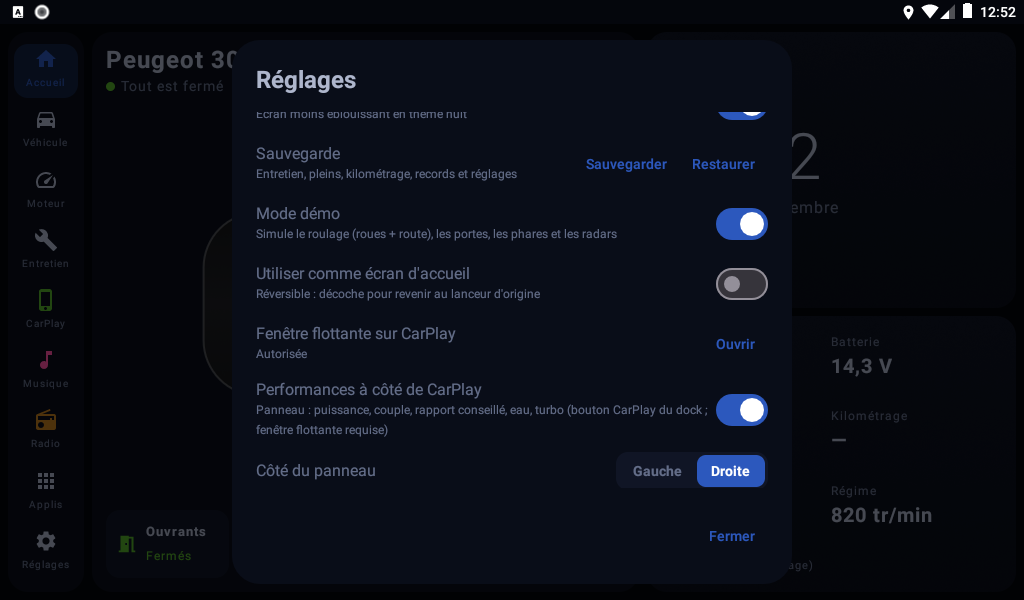
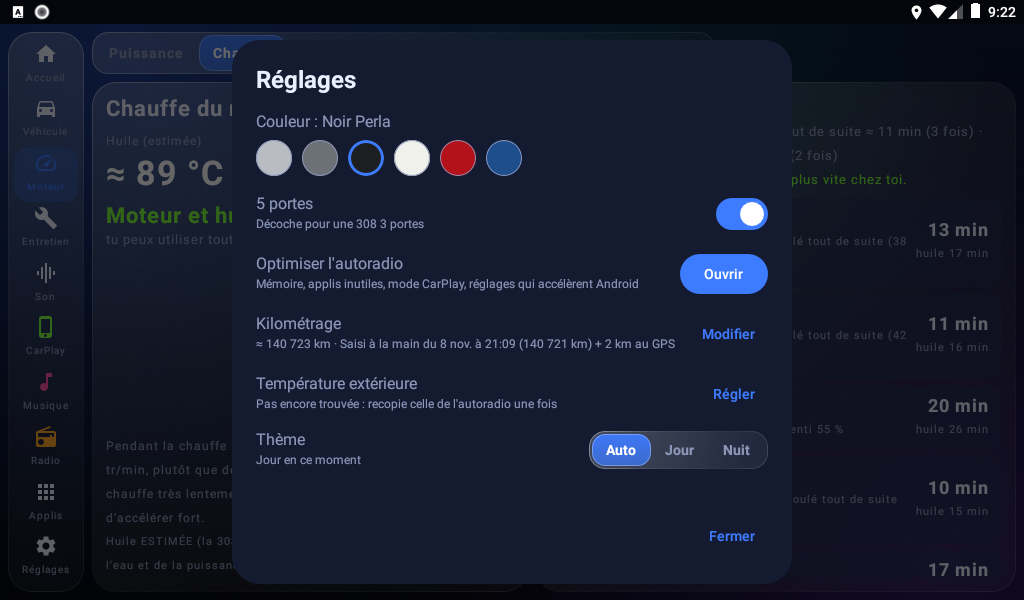
README : captures Moteur Chauffe, Réglages et Optimiser mises à jour (v0.19, mode démo)

diff --git a/README.md b/README.md
@@ -41,16 +41,18 @@ de dessus en 2D, celle que l'appli affiche quand la 3D n'est pas disponible. Sur
 | ![Santé de la batterie mesurée à chaque démarrage](docs/captures/onglets/13-moteur-batterie.png) | ![Trajet en cours avec score de conduite souple, historique des trajets](docs/captures/onglets/08-moteur-trajets.png) |
 | **Moteur — Chrono** | **Moteur — Bilan et FAP (v0.14)** |
 | ![Chrono 0-100 et 80-120 km/h](docs/captures/onglets/07-moteur-chrono.png) | ![Bilan du mois, régénération du FAP en cours repérée au débit d'air, conseil voie rapide](docs/captures/onglets/14-moteur-bilan-fap.png) |
+| **Moteur — Chauffe (v0.11)** | |
+| ![Huile estimée, temps de chauffe prévu d'après les chauffes passées, comparaison rouler / ralenti](docs/captures/onglets/21-moteur-chauffe.png) | |
 | **Son — Alignement (v0.15)** | **Son — Tests et polarité (v0.15)** |
 | ![Distances oreille / haut-parleurs et retards à recopier dans le DSP](docs/captures/onglets/15-son-alignement.png) | ![Sons de test par côté, balayage, test de polarité A / B en cours](docs/captures/onglets/16-son-tests.png) |
 | **Son — Mesure au micro du PC (v0.15)** | **Son — Options (v0.15)** |
 | ![Bruit rose, clics gauche / droite, montée en volume pour l'outil PC](docs/captures/onglets/17-son-mesure-pc.png) | ![Volume selon la vitesse, annonces vocales, applis son de l'autoradio](docs/captures/onglets/18-son-options.png) |
 | **Optimiser l'autoradio (v0.16)** | **Optimiser — réglages guidés (v0.16)** |
-| ![Mémoire libérée, mode CarPlay, nettoyage à l'ouverture de CarPlay](docs/captures/onglets/19-optimisation.png) | ![Animations, recherche Wi-Fi / Bluetooth, veille FYT, applis inutilisées](docs/captures/onglets/20-optimisation-reglages.png) |
+| ![Mémoire libérée à la main ou toute seule (v0.18), mode CarPlay, nettoyage à l'ouverture de CarPlay](docs/captures/onglets/19-optimisation.png) | ![Animations, recherche Wi-Fi / Bluetooth, veille FYT, applis inutilisées](docs/captures/onglets/20-optimisation-reglages.png) |
 | **Entretien** | **Entretien — Pleins** |
 | ![Échéances d'entretien](docs/captures/onglets/09-entretien.png) | ![Consommation et coût des pleins](docs/captures/onglets/10-entretien-pleins.png) |
 | **Réglages** | **Panneau à côté de CarPlay (v0.13, alerte FAP v0.14)** |
-| ![Réglages : mode démo, panneau CarPlay, côté](docs/captures/onglets/11-reglages.png) | ![Panneau : puissance, rapport conseillé, régime, eau, turbo, batterie](docs/captures/onglets/12-panneau-performances.png) |
+| ![Réglages : couleur, 5 portes, Optimiser l'autoradio, kilométrage, température extérieure, thème](docs/captures/onglets/11-reglages.png) | ![Panneau : puissance, rapport conseillé, régime, eau, turbo, batterie](docs/captures/onglets/12-panneau-performances.png) |
 
 **Nouveau en v0.19 : fiche technique de l'autoradio écrite sur la clé USB (09/11 au soir)**
 - **Fiche technique** (`backup/DeviceInfo.kt`, lancée par `AutoBackup.tick` une fois par lancement dès qu'une clé est
